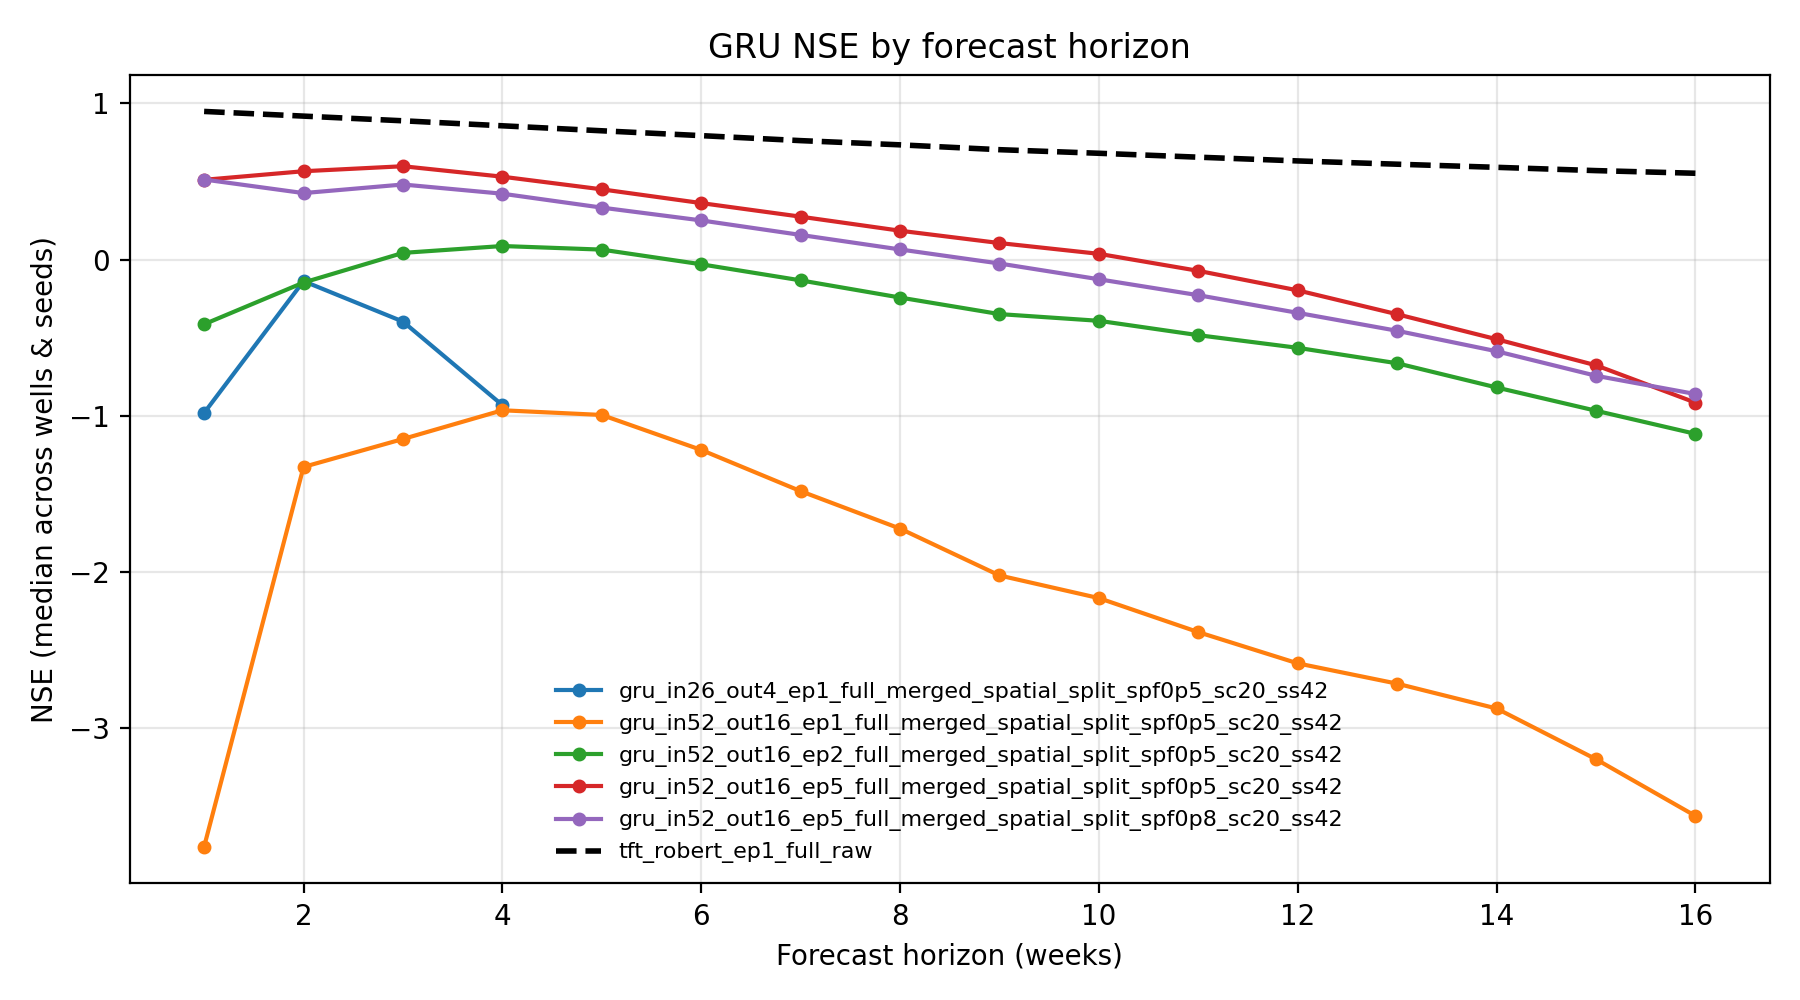
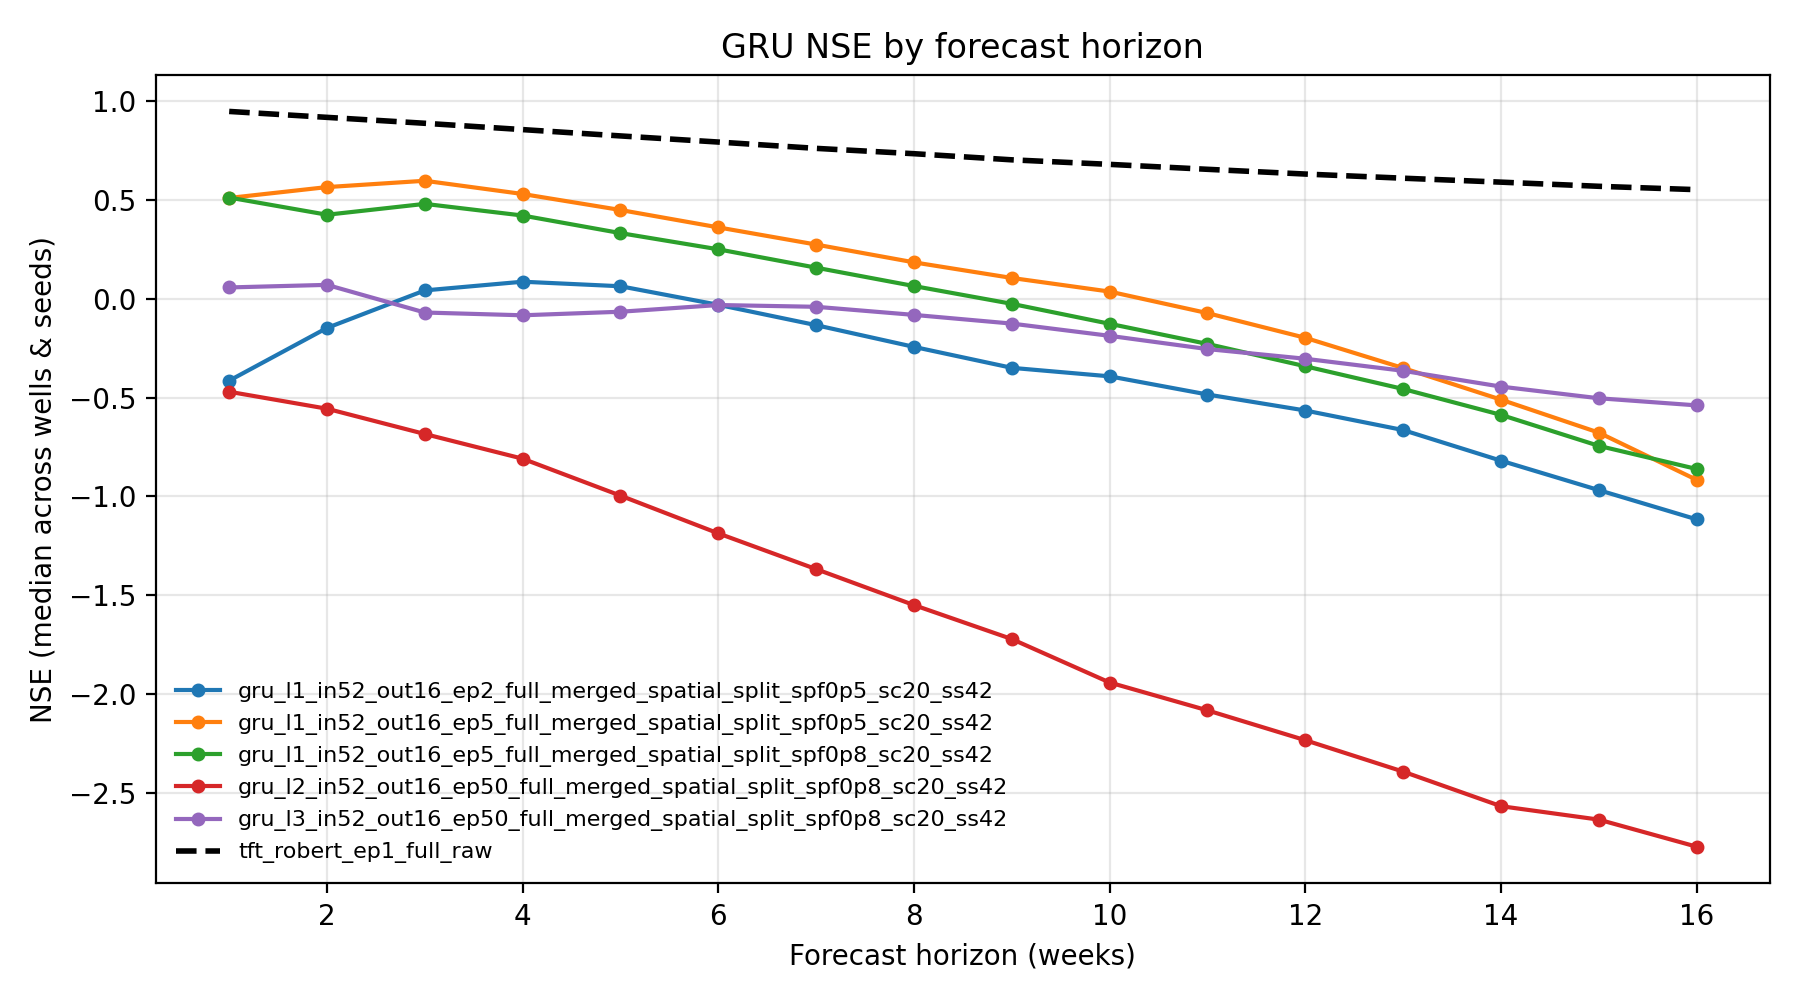
updated gru metrics and plots

diff --git a/src/analysis/build_gru_metrics_summary.py b/src/analysis/build_gru_metrics_summary.py
@@ -41,8 +41,10 @@ def _run_label(
     dataset: str,
     spatial_split: bool,
     split_tag: str,
+    num_layers: int | None = None,
 ) -> str:
-    label = f"gru_in{in_len}_out{out_len}_ep{epochs}_{dataset}"
+    prefix = f"gru_l{num_layers}" if num_layers is not None else "gru"
+    label = f"{prefix}_in{in_len}_out{out_len}_ep{epochs}_{dataset}"
     if spatial_split:
         if dataset == "full_merged":
             label = f"{label}_spatial_split"
@@ -97,23 +99,42 @@ def _collect_runs() -> pd.DataFrame:
         return pd.DataFrame()
 
     for run_dir in sorted(GRU_OUTPUT_ROOT.glob("GRU_FCOV_*")):
-        m = RUN_RE.match(run_dir.name)
-        if m is None:
-            continue
-
         pred_path = run_dir / "predictions" / "pred.parquet"
         if not pred_path.exists():
             continue
 
         run_sig = run_dir.name.replace("GRU_FCOV_", "", 1)
         split_tag = _split_tag(run_sig)
-        in_len = int(m.group("in_len"))
-        out_len = int(m.group("out_len"))
-        epochs = int(m.group("epochs"))
-        seed = int(m.group("seed"))
-        dataset = m.group("dataset")
         spatial_split = _is_spatial_split(run_sig)
+        num_layers = None
 
+        m = RUN_RE.match(run_dir.name)
+        if m is not None:
+            in_len = int(m.group("in_len"))
+            out_len = int(m.group("out_len"))
+            epochs = int(m.group("epochs"))
+            seed = int(m.group("seed"))
+            dataset = m.group("dataset")
+        else:
+            # Regex didn't match (e.g. custom run_sig) — fall back to meta.yaml
+            meta_path = run_dir / "meta.yaml"
+            if not meta_path.exists():
+                continue
+            with open(meta_path, "r", encoding="utf-8") as f:
+                meta_fb = yaml.safe_load(f) or {}
+            if not isinstance(meta_fb, dict):
+                continue
+            required = ["in_len", "out_len", "epochs", "seed", "dataset"]
+            if not all(k in meta_fb for k in required):
+                continue
+            in_len = int(meta_fb["in_len"])
+            out_len = int(meta_fb["out_len"])
+            epochs = int(meta_fb["epochs"])
+            seed = int(meta_fb["seed"])
+            dataset = str(meta_fb["dataset"])
+            num_layers = meta_fb.get("num_layers")
+
+        # Always override with meta.yaml values when available
         meta_path = run_dir / "meta.yaml"
         if meta_path.exists():
             with open(meta_path, "r", encoding="utf-8") as f:
@@ -124,6 +145,8 @@ def _collect_runs() -> pd.DataFrame:
                 epochs = int(meta.get("epochs", epochs))
                 seed = int(meta.get("seed", seed))
                 dataset = str(meta.get("dataset", dataset))
+                if num_layers is None:
+                    num_layers = meta.get("num_layers")
 
         pred_df = pd.read_parquet(pred_path)
         if pred_df.empty:
@@ -138,6 +161,7 @@ def _collect_runs() -> pd.DataFrame:
             dataset=dataset,
             spatial_split=spatial_split,
             split_tag=split_tag,
+            num_layers=num_layers,
         )
         metrics_well_h["in_len"] = in_len
         metrics_well_h["out_len"] = out_len
@@ -168,16 +192,17 @@ def _aggregate(df: pd.DataFrame) -> pd.DataFrame:
 
 
 def _run_sort_key(run_name: str) -> tuple:
-    m = re.match(r"^gru_in(\d+)_out(\d+)_ep(\d+)_(.+)$", run_name)
+    m = re.match(r"^gru(?:_l(\d+))?_in(\d+)_out(\d+)_ep(\d+)_(.+)$", run_name)
     if m is None:
-        return (9999, 9999, 9999, run_name)
-    in_len = int(m.group(1))
-    out_len = int(m.group(2))
-    epochs = int(m.group(3))
-    dataset = m.group(4)
+        return (9999, 9999, 9999, 9999, run_name)
+    num_layers = int(m.group(1)) if m.group(1) else 0
+    in_len = int(m.group(2))
+    out_len = int(m.group(3))
+    epochs = int(m.group(4))
+    dataset = m.group(5)
     dataset_order = {"full_raw": 0, "full_merged_spatial_split": 1, "full_merged": 2, "sample": 3}
     d_ord = dataset_order.get(dataset, 9)
-    return (d_ord, in_len, out_len, epochs, run_name)
+    return (d_ord, in_len, out_len, epochs, num_layers, run_name)
 
 
 def main() -> None:
@@ -200,7 +225,10 @@ def main() -> None:
 
     # Plot NSE by horizon for each run
     fig, ax = plt.subplots(figsize=(9, 5))
-    plot_df = final[~final["run"].str.contains("_sample", na=False)].copy()
+    plot_df = final[
+        ~final["run"].str.contains("_sample", na=False)
+        & ~final["run"].str.contains("_ep1_", na=False)
+    ].copy()
     for run_label in plot_df["run"].unique():
         sub = plot_df[plot_df["run"] == run_label].sort_values("horizon")
         ax.plot(sub["horizon"], sub["NSE"], marker="o", markersize=4, label=run_label)
